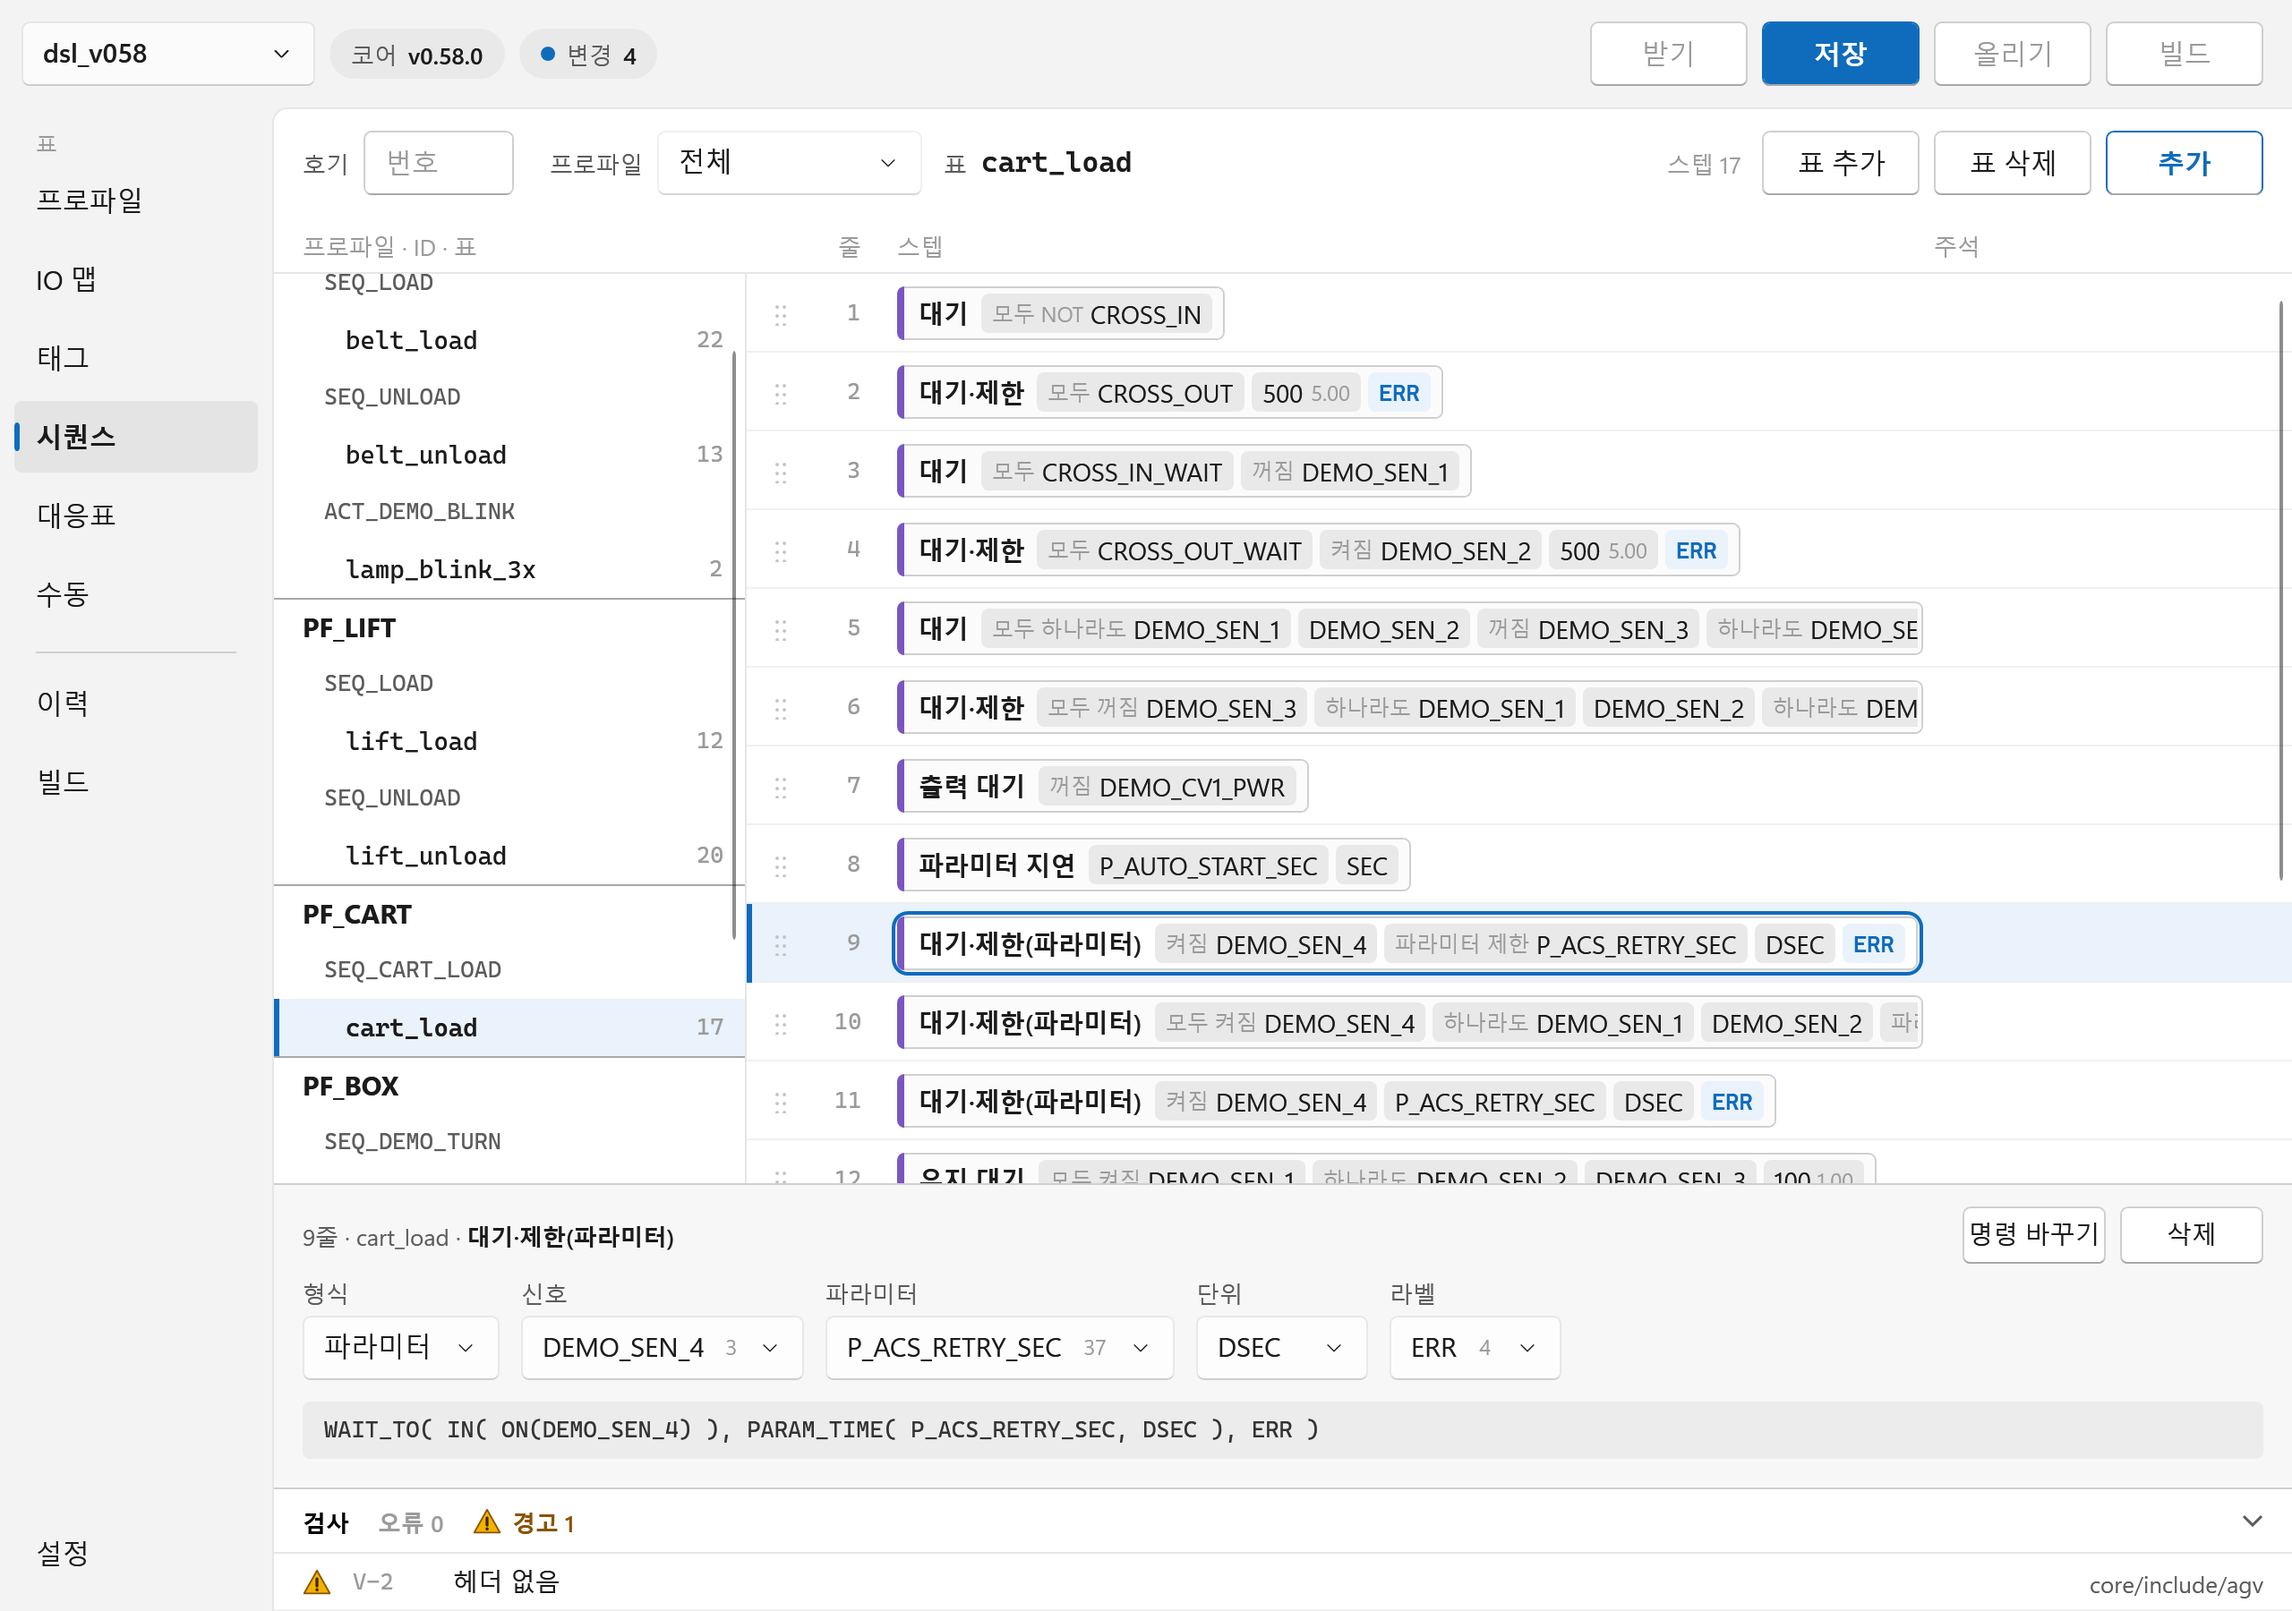
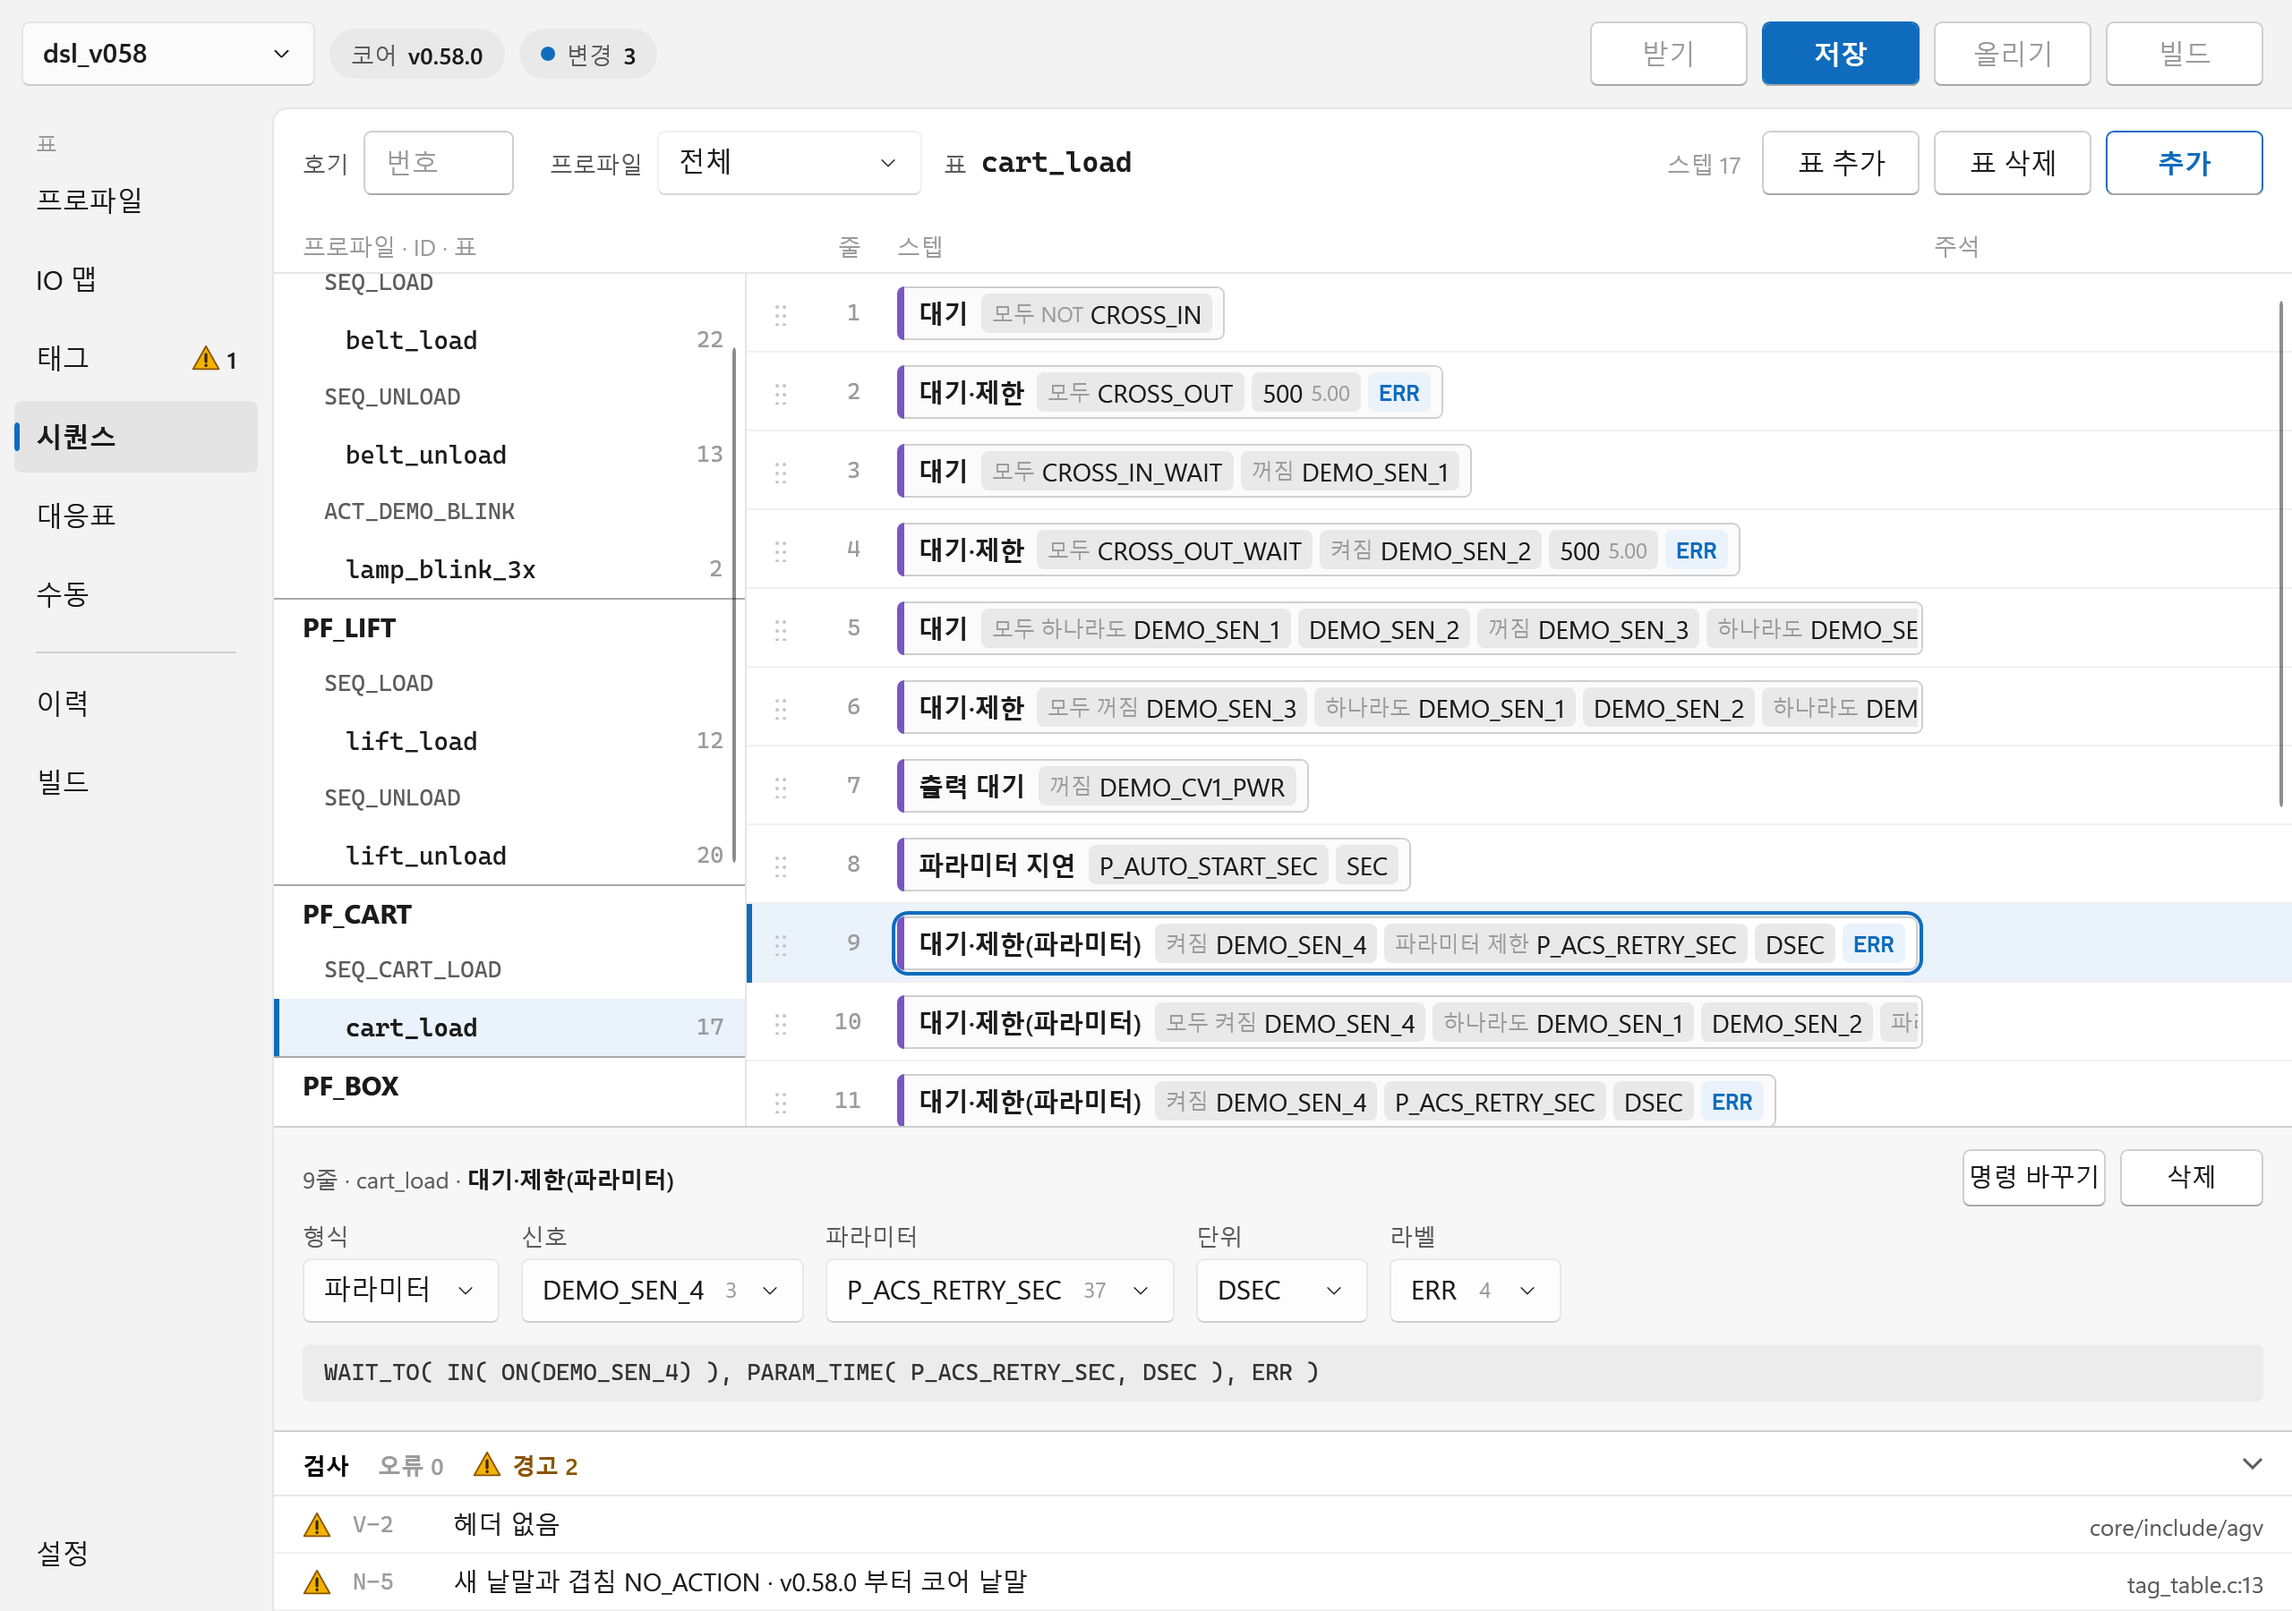
검토 3·6: V-4 옛 코어의 새 문법, N-5 새 낱말을 덮는 #define
- 옛 코어(v0.58.0 미만) 사이트가 새 문법을 쓰면 오류 V-4(사이트가 같은 이름을 #define 했으면 건너뜀)
- 새 코어 사이트에서 새 낱말과 같은 이름의 #define 은 N-5 경고, AND 안에서 쓰이거나 PARAM·KEY 인자 이름이면 오류(gcc 로 깨짐 확인)

diff --git a/src/TableEditor.Engine/Check/Rules.Core.cs b/src/TableEditor.Engine/Check/Rules.Core.cs
@@ -61,6 +61,36 @@ public static partial class Checker
             yield return CoreFinding("V-3", Severity.Error, k, $"core 없어짐 {k}");
     }
 
+    static readonly string[] OldAcsWords = ["CONST", "STATION0", "STATION0_PLUS1", "AGV_ID"];
+
+    /// <summary>
+    /// V-4: 옛 코어(v0.58.0 미만) 사이트가 v0.58.0 에서 생긴 문법을 썼다(<c>AND</c>·<c>ANY</c>·새 상태 낱말·<c>PARAM_TIME</c>·<c>OUT_SET</c>·
+    /// 숫자 <c>AGV_SPEED</c>·번호 <c>ACS</c> 등). 줄마다 하나, 낱말을 모아 보인다. 사이트가 같은 이름을 직접 <c>#define</c> 했으면 사이트 매크로로 보고 건너뛴다.
+    /// 코어 폴더가 없거나 버전을 모르면 걸지 않는다.
+    /// </summary>
+    static IEnumerable<Finding> V4(Facts f)
+    {
+        if (f.Site.CoreFolder == null || f.Site.CoreVersion == null || f.Site.NewDsl) yield break;
+        var found = new Dictionary<Statement, (Arg? Cell, List<string> Names)>(ReferenceEqualityComparer.Instance);
+        void Add(Statement st, Arg? cell, string name)
+        {
+            if (f.Names.Get(name).Any(d => !d.Core)) return;
+            if (!found.TryGetValue(st, out var x)) found[st] = x = (cell, []);
+            if (!x.Names.Contains(name)) x.Names.Add(name);
+        }
+        foreach (var (st, row) in f.Rows)
+            if (row.Since.Length > 0) Add(st, st.Args.FirstOrDefault(), row.Name);
+        foreach (var u in f.Uses)
+        {
+            // 수동 표 칸의 KEY( 키 ) 는 옛 코어에도 있었다(문법 표에는 새 상태 낱말 줄만 있다)
+            if (f.Inners.TryGetValue(u.Node, out var e) && e.Since.Length > 0 && !(u.Spec.Kind == ArgKind.ManCond && e.Name == "KEY")) Add(u.St, u.Loc, e.Name);
+            if (u.Spec.Kind == ArgKind.AcsSource && (u.Node is NumberNode || u.Node is NameNode n && !OldAcsWords.Contains(n.Name) && f.Names.Value(n) != null))
+                Add(u.St, u.Loc, "ACS 번호");
+        }
+        foreach (var (st, x) in found)
+            yield return f.Error("V-4", st, $"코어 {GrammarTable.NewVersion} 필요 · {string.Join(", ", x.Names)}", x.Cell);
+    }
+
     /// <summary>글 파일은 CRLF 를 LF 로 맞춰, <c>.lib</c> 은 그대로 해시(앱 tools/core_manifest.ps1 과 같다).</summary>
     static string NormHash(string path)
     {
@@ -155,6 +185,33 @@ public static partial class Checker
         foreach (var z in f.Site.Zones)
             if (FixedArrays.TryGetValue(z.Open, out var want) && z.Name != want)
                 yield return f.Error("N-5", z.Begin, $"배열 이름 {z.Name} · {want}", z.Begin.Args.FirstOrDefault());
+        if (f.Site.NewDsl)
+            foreach (var x in N5New(f)) yield return x;
+    }
+
+    /// <summary>v0.58.0 에서 새로 생긴 공개 이름(상태 낱말·AND·ANY·OUT_SET·NO_ACTION …).</summary>
+    static readonly IReadOnlySet<string> NewNames = GrammarTable.Names.Except(GrammarTable.OldNames).ToHashSet(StringComparer.Ordinal);
+
+    /// <summary>사이트가 <c>#define</c> 한 이름(그 이름이 쓰인 곳은 매크로로 펼쳐진다). 원문 블록 안 정의(Weak)도 같다.</summary>
+    static bool SiteDefine(Facts f, string name) => f.Names.Get(name).Any(d => !d.Core && (d.Weak || d.Def is Statement { Shape: StatementShape.Define }));
+
+    /// <summary>
+    /// N-5(새 코어): 새 낱말과 같은 이름의 <c>#define</c> 은 경고. 그 이름이 <c>AND( … )</c> 안에서 쓰였거나,
+    /// <c>PARAM</c>·<c>PARAM_MIN</c>·<c>PARAM_MAX</c> 의 파라미터 이름·<c>KEY</c> 의 키 이름이 사이트 매크로면 오류(코어 헤더가 낱말을 이어 붙이기 전에 펼쳐 컴파일이 깨진다).
+    /// </summary>
+    static IEnumerable<Finding> N5New(Facts f)
+    {
+        foreach (var d in f.Names.All.Where(d => !d.Core && !d.Weak && d.Def is Statement { Shape: StatementShape.Define } && NewNames.Contains(d.Name)))
+            yield return f.Warn("N-5", d.Def!, $"새 낱말과 겹침 {d.Name} · {GrammarTable.NewVersion} 부터 코어 낱말");
+        static IEnumerable<(Arg Loc, Node Node)> Inside(Arg loc) => loc.Node is CallNode c ? c.Args.SelectMany(Inside).Prepend((loc, loc.Node)) : [(loc, loc.Node)];
+        foreach (var u in f.Uses.Where(u => u.Node is CallNode { Name: "AND" }))
+            foreach (var (loc, n) in ((CallNode)u.Node).Args.SelectMany(Inside))
+            {
+                if (NameOf(n) is { Length: > 0 } name && NewNames.Contains(name) && SiteDefine(f, name))
+                    yield return f.Error("N-5", u.St, $"AND 안 {name} · 사이트 #define 이 낱말을 덮는다", loc);
+                if (n is CallNode { Name: "PARAM" or "PARAM_MIN" or "PARAM_MAX" or "KEY", Args: [{ Node: NameNode { Name: var arg } } first, ..] } c && SiteDefine(f, arg))
+                    yield return f.Error("N-5", u.St, $"AND 안 {c.Name}( {arg} ) · 사이트 #define 이 이름을 덮는다", first);
+            }
     }
 
     /// <summary>C-2: 처음으로 ACT 를 쓴다(<c>act_table.c</c> 가 빈 자리 꼴).</summary>

diff --git a/tests/TableEditor.Tests/CheckTests.cs b/tests/TableEditor.Tests/CheckTests.cs
@@ -269,13 +269,16 @@ static class CheckTests
         check(Run(root, good).Any(f => f.Rule == "V-3" && f.Text.Contains("추가됨 include/agv/extra.h")), "V-3 추가됨");
 
         var seen = new HashSet<string>();
-        // 새 코어(v0.58.0 이상): 옛 형식 fixture 와 새 형식 fixture 모두 결과 0, 새 규칙(D-*)은 새 코어에만 건다
+        // 새 코어(v0.58.0 이상): 옛 형식 fixture 와 새 형식 fixture 모두 결과 0(fixture 가 정의한 NO_ACTION 의 새 낱말 겹침 경고 하나만), 새 규칙(D-*)은 새 코어에만 건다
         var newCore = MakeCore("new", "v0.58.0", false, false);
-        var oldOnNew = Run(root, newCore);
-        check(oldOnNew.Count == 0, "옛 형식 fixture + 새 코어 결과 0: " + string.Join(" | ", oldOnNew.Take(5)));
+        bool NoAction(Finding f) => f.Rule == "N-5" && f.Severity == Severity.Warning && f.Text.Contains("NO_ACTION", StringComparison.Ordinal);
+        var oldOnNewAll = Run(root, newCore);
+        var oldOnNew = oldOnNewAll.Where(f => !NoAction(f)).ToList();
+        check(oldOnNew.Count == 0 && oldOnNewAll.Count(NoAction) == 1, "옛 형식 fixture + 새 코어 결과 0(NO_ACTION 경고 하나 뺌): " + string.Join(" | ", oldOnNew.Take(5)));
         var newFixture = Path.Combine(Fixture(root), "dsl_v058");
-        var newOnNew = Checker.Run(Site.Open(newFixture, newCore));
-        check(newOnNew.Count == 0, "새 형식 fixture + 새 코어 결과 0: " + string.Join(" | ", newOnNew.Take(5)));
+        var newOnNewAll = Checker.Run(Site.Open(newFixture, newCore));
+        var newOnNew = newOnNewAll.Where(f => !NoAction(f)).ToList();
+        check(newOnNew.Count == 0 && newOnNewAll.Count(NoAction) == 1, "새 형식 fixture + 새 코어 결과 0(NO_ACTION 경고 하나 뺌): " + string.Join(" | ", newOnNew.Take(5)));
         var oldCore = MakeCore("old57", "v0.57.0", false, false);
         check(!Site.Open(newFixture, oldCore).NewDsl && Site.Open(newFixture, newCore).NewDsl && !Site.Open(newFixture).NewDsl, "새 형식 판단: core/VERSION v0.58.0 이상");
         foreach (var (rule, edits, text) in DslCases())

diff --git a/src/TableEditor.Engine/Check/Checker.cs b/src/TableEditor.Engine/Check/Checker.cs
@@ -7,13 +7,13 @@ namespace TableEditor.Engine.Check;
 /// <summary>
 /// 사이트 전체 검사(사양 6절). 규칙 하나 = 함수 하나, 번호는 사양 그대로.
 /// 넣지 않은 규칙: R-3(저장 때), N-6(이름 바꾸기·지우기 때), C-1·C-1b·C-1c(빌드 단계에서 압축 표를 다시 만든다).
-/// D-1~D-6 은 코어 v0.58.0 이상 사이트에만 건다(새 DSL 형식의 컴파일 오류를 저장 전에 잡는다).
+/// D-1~D-6 은 코어 v0.58.0 이상 사이트에만 건다(새 DSL 형식의 컴파일 오류를 저장 전에 잡는다). V-4 는 거꾸로 옛 코어 사이트가 새 문법을 쓴 줄을 잡는다.
 /// </summary>
 public static partial class Checker
 {
     public static readonly IReadOnlyList<(string Rule, Func<Facts, IEnumerable<Finding>> Run)> Rules =
     [
-        ("V-1", V1), ("V-2", V2), ("V-3", V3), ("R-1", R1), ("R-2", R2),
+        ("V-1", V1), ("V-2", V2), ("V-3", V3), ("V-4", V4), ("R-1", R1), ("R-2", R2),
         ("N-1", N1), ("N-2", N2), ("N-3", N3), ("N-4", N4), ("N-5", N5), ("N-7", N7),
         ("P-1", P1), ("P-2", P2), ("P-3", P3), ("P-4", P4), ("P-5", P5), ("P-6", P6),
         ("I-1", I1), ("I-2", I2), ("I-3", I3), ("I-4", I4), ("I-5", I5), ("I-6", I6),

diff --git a/src/TableEditor.Engine/Check/Facts.cs b/src/TableEditor.Engine/Check/Facts.cs
@@ -31,6 +31,11 @@ public sealed class Facts
     /// <summary>문장마다 고른 문법 줄.</summary>
     public IReadOnlyDictionary<Statement, GrammarEntry> Rows { get; }
 
+    /// <summary>안쪽 이름(조건·동작·상태 낱말 …) 풀이 나무마다 고른 문법 줄.</summary>
+    public IReadOnlyDictionary<Node, GrammarEntry> Inners => inners;
+
+    readonly Dictionary<Node, GrammarEntry> inners = new(ReferenceEqualityComparer.Instance);
+
     readonly Dictionary<Statement, Area> areas = new(ReferenceEqualityComparer.Instance);
 
     public Facts(Site site)
@@ -227,6 +232,7 @@ public sealed class Facts
         if (!callish) return;
         var entry = Inner(name, args, spec.Kind, area);
         if (entry == null) return;
+        inners[node] = entry;
         var specs = Expand(entry, args.Count)!;
         for (int i = 0; i < args.Count; i++)
             Walk(uses, f, st, args[i], args[i].Node, specs[i], area, entry.Name, sigOut, inCond);

diff --git a/tests/TableEditor.Tests/DslTests.cs b/tests/TableEditor.Tests/DslTests.cs
@@ -28,7 +28,7 @@ static class DslTests
         var old = Site.Open(fx, Core("old", "v0.57.0"));
         var none = Site.Open(fx);
         check(site.NewDsl && site.Names.NewDsl && !old.NewDsl && !none.NewDsl && !old.Names.NewDsl, "코어 버전으로 새 형식 판단");
-        check(Checker.Run(site).Count(f => f.Rule is not ("V-2" or "V-3")) == 0, "새 형식 fixture + v0.58.0 = 결과 0(헤더·MANIFEST 없는 지어낸 core 의 V-2·V-3 만 뺀다)");
+        check(Checker.Run(site).Count(f => f.Rule is not ("V-2" or "V-3") && !(f.Rule == "N-5" && f.Text.Contains("NO_ACTION", StringComparison.Ordinal))) == 0, "새 형식 fixture + v0.58.0 = 결과 0(헤더·MANIFEST 없는 지어낸 core 의 V-2·V-3, fixture 가 정의한 NO_ACTION 겹침 경고만 뺀다)");
 
         // 상태 낱말 대응
         XCond X(string n, params string[] a) => new(n, a);
